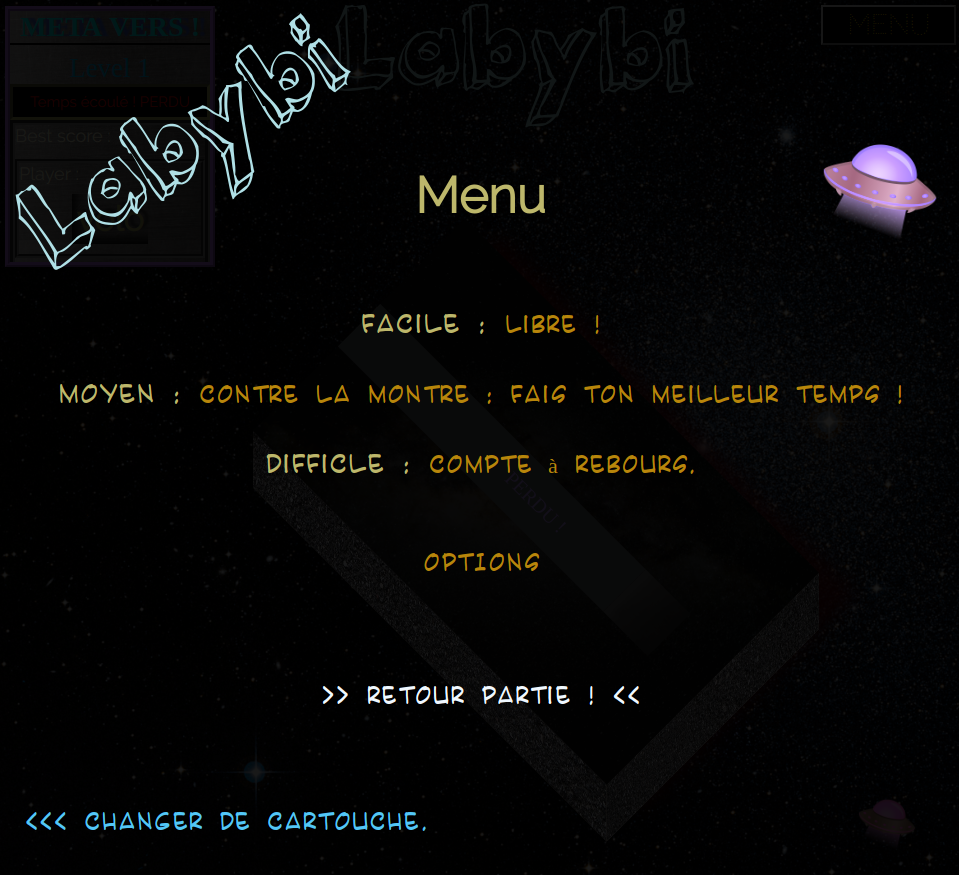
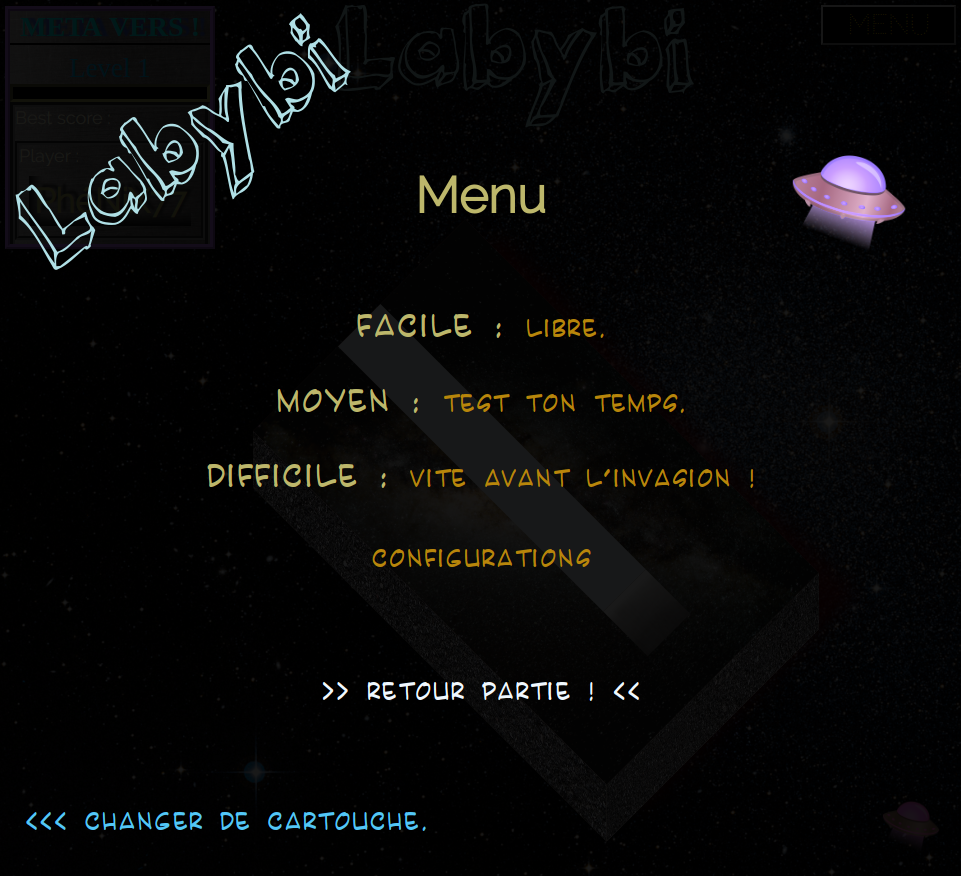
menu corrigé, nouveau record

diff --git a/laby_vanilla.html b/laby_vanilla.html
@@ -48,7 +48,7 @@
 				<br>
 				<span class="creditsNom">YouYou</span><br>
 				<br>
-				<span class="creditsNom">Tof</span><br>
+				<span class="creditsNom">Tophe</span><br>
 				<br>
 				<span class="creditsNom">Brakebein</span><br>
 				<br>			
@@ -66,17 +66,17 @@
 				<ul id="menuLabyMenu">
 					<h2 id="titreLabyMenu">Menu</h2>
 					
-					<li id="optionLibre"><img id="imgMenu" src="tools/cursor/ufo2.png"><span>Facile : </span> Libre ! </li>
-					<li id="optionChrono"><img id="imgMenu" src="tools/cursor/ufo2.png"><span>Moyen : </span>Contre la montre, fais ton meilleur temps !</li>
-					<li id="optionVSmontre"><img id="imgMenu" src="tools/cursor/ufo2.png"><span>Difficile : </span>Compte à rebours.</li>
-					<li id="optionOptions"><img id="imgMenu" src="tools/cursor/ufo2.png">OPTIONS</li>
+					<li id="optionLibre"><img id="imgMenu" src="tools/cursor/ufo2.png"><span>Facile : </span> Libre. </li>
+					<li id="optionChrono"><img id="imgMenu" src="tools/cursor/ufo2.png"><span>Moyen : </span>Test ton temps.</li>
+					<li id="optionVSmontre"><img id="imgMenu" src="tools/cursor/ufo2.png"><span>Difficile : </span>Vite avant l'invasion !</li>
+					<li id="optionOptions"><img id="imgMenu" src="tools/cursor/ufo2.png">configurations</li>
 					<li id="optionMelangerEtMonde"><img id="imgMenu" src="tools/cursor/ufo2.png">>> Retour partie ! <<</li>
 					<li id="optionRetourCartoucheDeJeux"><img id="imgMenu" src="tools/cursor/ufo2.png"><a href="../menu.html"><<< Changer de cartouche.</a></li>
 				</ul>
 
 				<ul id="optionLabyMenu">
 
-					<h2 id="titreLabyMenu">Options</h2>
+					<h2 id="titreLabyMenu">configurations</h2>
 					
 					<li id="formePlateau"><img id="imgMenu" src="tools/cursor/ufo2.png"><button id="boutonChangeWorld" >Changer de monde !</button></li>
 					<li id="shufflePlateau"><img id="imgMenu" src="tools/cursor/ufo2.png"><div id="textDanger"><button>Mélanger les niveaux !</button></div></li>

diff --git a/tools/laby_vanilla.js b/tools/laby_vanilla.js
@@ -925,25 +925,13 @@ function displayScoreScreen(tempsReceived){
 	oldScore.innerHTML = "*" +tempsReceived +" secondes*";
 	oldPlayer.innerHTML = displayPlayer();
 
-	oldScore1.innerHTML =  "*" +11 +"secondes*";
-	oldPlayer1.innerHTML = "Duke3D";
+	oldScore1.innerHTML =  "*" +10 +" secondes*";
+	oldPlayer1.innerHTML = "Guillaume";
 
-	oldScore2.innerHTML = "*" +14 +"secondes*";
-	oldPlayer2.innerHTML = "MaJoR_34";
+	oldScore2.innerHTML = "*" +11 +" secondes*";
+	oldPlayer2.innerHTML = "Duke3d";
 
 }
-
-
-var test = "Salut";
-
-recup(test);
-
-function recup(qqchose){
-
-	console.log(qqchose);
-};
-
-
 
 
 var iDeg = 0;

diff --git a/tools/laby_vanilla.css b/tools/laby_vanilla.css
@@ -482,6 +482,7 @@ h1#theTitle.creditsEnd{
     padding: 5px;
     text-shadow: 5px -3px 3px rgb(43, 43, 42);
     box-shadow: inset 9px -10px 19px -4px #000000;
+    text-transform: capitalize;
 }
 #boite{
     background-color: cadetblue;
